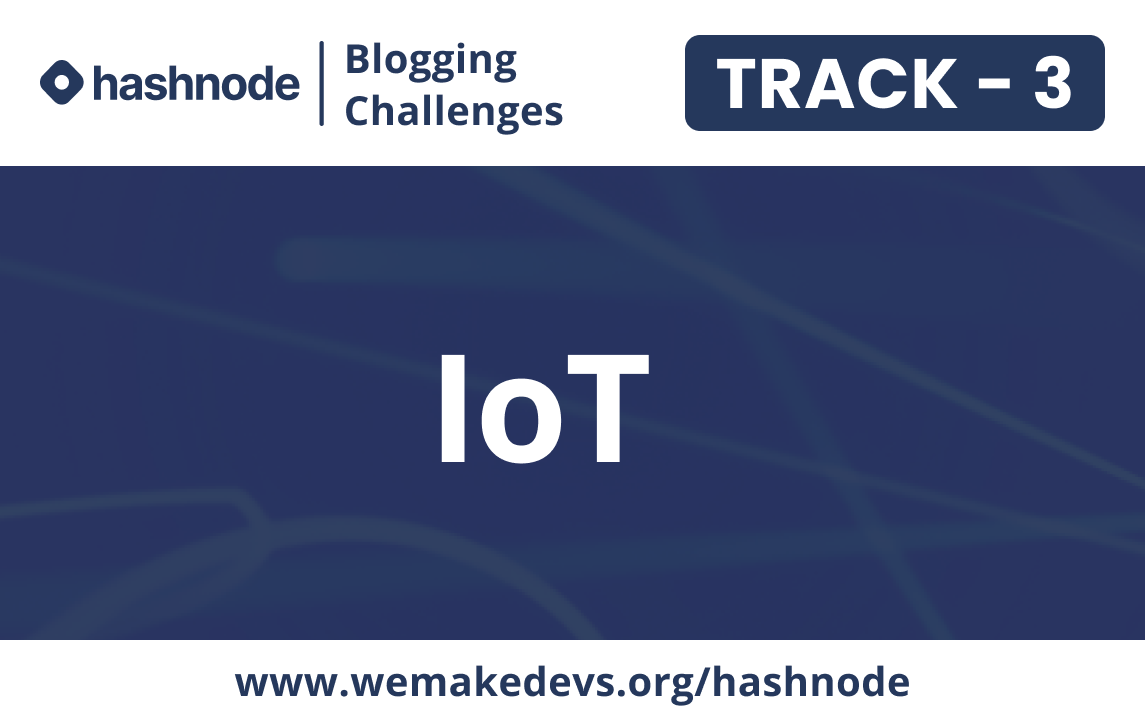
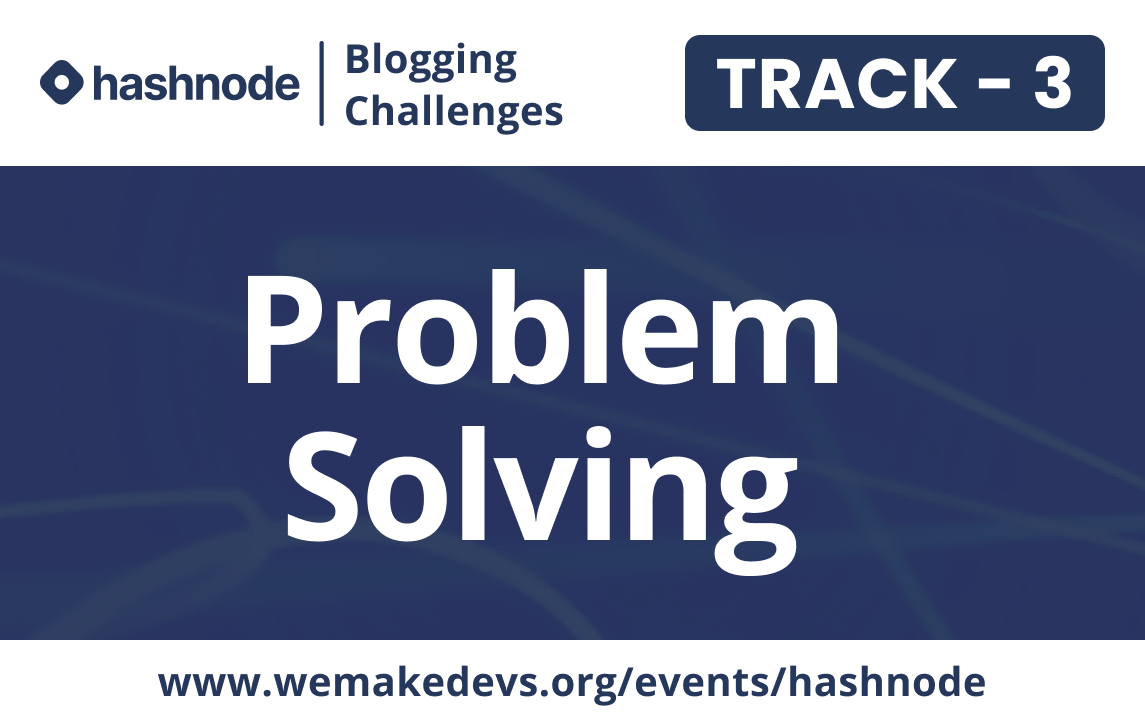
feb-2022 track update on hashnode page

Changed region(s): [[0.214, 0.3667, 0.7336, 0.825], [0.1223, 0.9167, 0.8559, 0.9778]]

diff --git a/src/components/hashnode/tracks/data.js b/src/components/hashnode/tracks/data.js
@@ -7,17 +7,17 @@ import Track4 from '../../../assets/hashnode/Track-4.png';
 export const hashnodeData = [
   {
     description:
-      'Write a blog on the topic Development, share some good projects, tips and stand a chance to win prize.',
+      'Write a blog on the topic DevOps, share some projects, tips and stand a chance to win prize.',
     image: Track1,
   },
   {
     description:
-      'Write a blog on the topic Productivity, share some good tips and your experience  and definitely stand a chance to win the prize.',
+      'Write a blog on the topic machine Learning, share some good tips and your experience and definitely stand a chance to win the prize.',
     image: Track2,
   },
   {
     description:
-      'Write a blog on the topic IoT and stand a chance to win the prize.',
+      'Write a blog on the topic Problem Solving and stand a chance to win the prize.',
     image: Track3,
   },
   {
@@ -27,7 +27,7 @@ export const hashnodeData = [
   },
   {
     description:
-      'Write a blog on the special topic 2022 wrap up , share what you have learned and achived this year and stand a chance to win the grand prize.',
+      "Write a blog about the best communities you're a part of and your experiences with them. What do you enjoy about them? How did they help you grow? and you can win a gaming monitor!",
     image: Special,
   },
 ];

diff --git a/src/components/hashnode/Annoucment/index.jsx b/src/components/hashnode/Annoucment/index.jsx
@@ -1,0 +1,27 @@
+import clsx from 'clsx';
+
+import styles from './index.module.css';
+
+const Annoucnment = ({ background }) => {
+  return (
+    <section
+      className={clsx(background === 'gradient' ? 'gradient' : 'static-bg')}
+    >
+      <div className={clsx('layout', styles.layout)}>
+        <h3 className='heading'>
+          INR 💵
+          <br /> 25000
+        </h3>
+        <h2 className='h2'>
+          Write blogs for 4 months in a row to enter a raffle for INR 25,000. 25
+          such folks will also receive a private 1:1 mentorship with Kunal
+          Kushwaha
+        </h2>
+        <div className={clsx(styles.dots, styles.left)}></div>
+        <div className={clsx(styles.dots, styles.right)}></div>
+      </div>
+    </section>
+  );
+};
+
+export default Annoucnment;

diff --git a/src/components/hashnode/Annoucment/index.module.css b/src/components/hashnode/Annoucment/index.module.css
@@ -1,0 +1,49 @@
+.section {
+  display: flex;
+  flex-direction: column;
+  position: relative;
+}
+
+.layout {
+  display: flex;
+  flex-direction: column;
+  gap: 1rem;
+  justify-content: center;
+  align-items: center;
+  padding-block: 6rem;
+}
+
+.layout h2 {
+  text-align: center;
+}
+
+.layout h3 {
+  text-align: center;
+  font-style: italic;
+  font-weight: bolder;
+}
+
+.dots {
+  background-image: radial-gradient(
+    rgb(var(--content), 0.5) 3px,
+    #00000000 3px
+  );
+  background-size: 28px 28px;
+  background-repeat: repeat;
+  width: 12rem;
+  aspect-ratio: 1/1;
+  z-index: 0;
+  position: absolute;
+}
+
+.dots.left {
+  left: 0;
+  top: 0;
+  transform: translateX(-50%);
+}
+
+.dots.right {
+  right: 0;
+  bottom: 0;
+  transform: translateX(50%);
+}

diff --git a/src/pages/Hashnode.jsx b/src/pages/Hashnode.jsx
@@ -1,5 +1,6 @@
 import { HashnodePageContent } from './content';
 import { Hero, HowTakePart, Offer, Prize, Track } from '../components/hashnode';
+import Annoucnment from '../components/hashnode/Annoucment';
 import { FAQ, Footer, JoinUs, Navbar, Partner } from '../components/layout';
 
 const HashnodePage = () => {
@@ -10,7 +11,8 @@ const HashnodePage = () => {
       <Offer />
       <Prize background='gradient' />
       <Track />
-      <HowTakePart background='gradient' />
+      <Annoucnment background='gradient' />
+      <HowTakePart />
       <JoinUs background='gradient' />
       <FAQ faq={HashnodePageContent.faq} />
       <Partner background='gradient' />

diff --git a/src/components/hashnode/HowTakePart/index.jsx b/src/components/hashnode/HowTakePart/index.jsx
@@ -79,8 +79,5 @@ const tweetId = [
   '1593969175651053568',
   '1594773169713205249',
   '1613238456729341953',
-  '1609515604033286144',
-  '1609581274985037824',
-  '1596162105971023872',
   '1616586072020111360',
 ];
